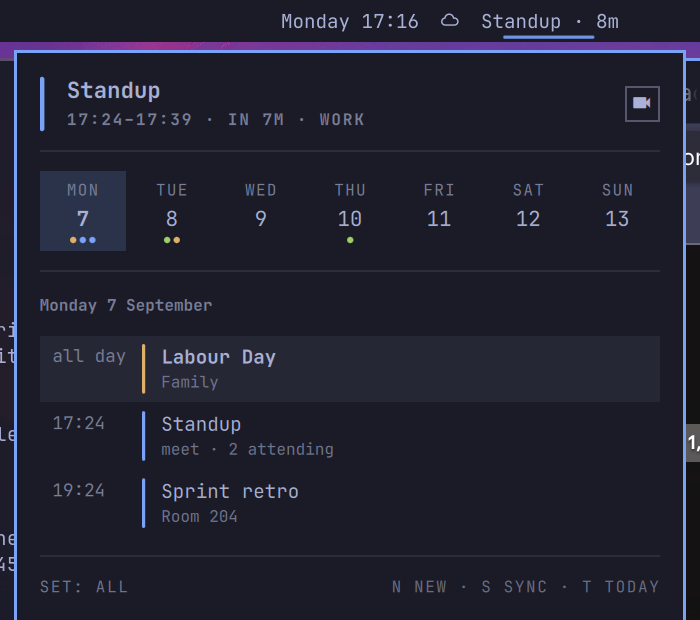
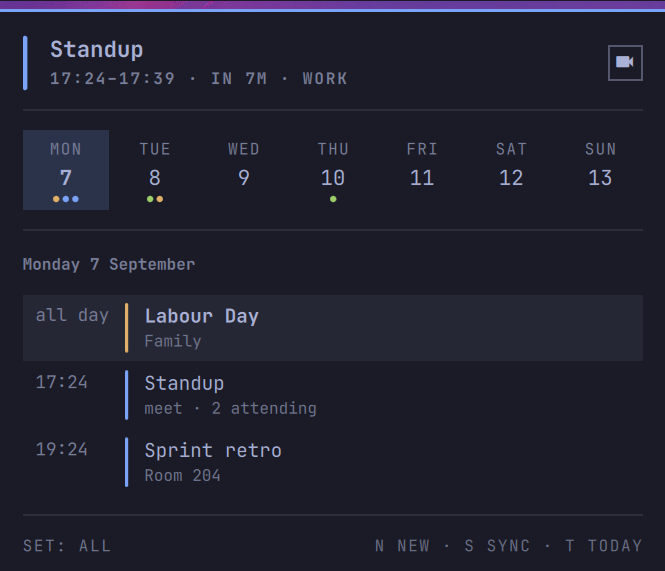
Make a broken watcher visible, and re-crop the screenshots
Two problems left over from Phase 2, both found by using the thing rather
than testing it.

A plugin that is enabled but broken rendered exactly like a plugin with a
free week: the watcher died, agenda.json never appeared, and every surface
politely showed nothing. The service now keeps the watcher's own stderr --
"No module named 'icalendar'" names the actual fix, where the exit code it
was reporting named nothing -- and turns it into a sentence the user can
act on. The panel shows that sentence in the theme's urgent colour instead
of "Nothing scheduled", and the pill takes a bar slot for a single warning
glyph when, and only when, there is no agenda to show instead; a stale but
populated agenda is still more useful than a warning, so events win the
slot whenever there are any. Verified live: with the calendar libraries
genuinely missing on this machine, the panel now says
"Omagenda needs icalendar: omarchy pkg add python-icalendar
python-dateutil python-recurring-ical-events".

The committed screenshots were cropped loosely enough to catch slivers of
whatever else was on screen -- single unreadable characters from a browser
and a terminal at the frame edges, but this is a public repo and they had
no business being there. Recropped to the panel's exact bounds, and
regenerated against demo events with plausible names rather than the
"Added while the panel was open" test event that happened to be on screen.
[…]

diff --git a/qml/Model.js b/qml/Model.js
@@ -189,6 +189,32 @@ function pillText(agenda, now, options) {
   return showCountdown ? event.title + " · " + countdownText(event.start, now) : event.title
 }
 
+// A plugin that is enabled but broken must not look like a plugin with
+// nothing to report. When the watcher can't run -- overwhelmingly because
+// the calendar libraries aren't installed -- both surfaces say so instead
+// of rendering an empty, indistinguishable "nothing scheduled".
+function healthProblem(serviceError, eventCount) {
+  var error = String(serviceError || "")
+  if (!error) return ""
+  // An error while events are already on screen is worth reporting in the
+  // panel but not worth hijacking the bar, so callers decide what to do
+  // with it; this only names the problem.
+  if (/No module named/.test(error)) {
+    var match = error.match(/No module named '([^']+)'/)
+    var missing = match ? match[1] : "a Python module"
+    return "Omagenda needs " + missing + ": omarchy pkg add python-icalendar python-dateutil python-recurring-ical-events"
+  }
+  if (/watch exited/.test(error)) return "The Omagenda watcher stopped: run 'omagenda doctor' to see why"
+  return error
+}
+
+function pillProblemText(serviceError, eventCount) {
+  // Only take a bar slot for a problem when there is nothing else to show;
+  // a stale-but-populated agenda is still more useful than a warning.
+  if (eventCount > 0) return ""
+  return healthProblem(serviceError, eventCount) ? " !" : ""
+}
+
 // ---------------------------------------------------------------------
 // Ticker strip
 // ---------------------------------------------------------------------
@@ -286,6 +312,8 @@ if (typeof module !== "undefined") {
     currentOrNextEvent: currentOrNextEvent,
     isRunning: isRunning,
     pillText: pillText,
+    healthProblem: healthProblem,
+    pillProblemText: pillProblemText,
     tickerDays: tickerDays,
     eventsForDate: eventsForDate,
     secondLine: secondLine,

diff --git a/qml/Service.qml b/qml/Service.qml
@@ -60,6 +60,9 @@ Item {
     return Model.paletteColor(root.palette, name, fallback)
   }
 
+  // "" when everything is fine; otherwise a sentence naming what to do.
+  readonly property string healthProblem: Model.healthProblem(lastError, eventCount)
+
   // ---- agenda.json --------------------------------------------------
   FileView {
     id: agendaFile
@@ -115,10 +118,26 @@ Item {
     onRunningChanged: root.watchRunning = running
     onExited: function(exitCode, exitStatus) {
       root.watchRunning = false
-      if (exitCode !== 0) root.lastError = "omagenda watch exited " + exitCode
+      if (exitCode !== 0 && root.lastError === "")
+        root.lastError = "omagenda watch exited " + exitCode
       // Back off rather than spin: a missing Python dependency would
       // otherwise restart in a tight loop for the life of the session.
       watchRestartTimer.restart()
+    }
+
+    // The watcher's own message is the useful one -- "No module named
+    // 'icalendar'" tells the user exactly what to install, where a bare
+    // exit code tells them nothing. Kept so the pill and panel can say it
+    // rather than rendering an empty agenda that looks like a free week.
+    stderr: StdioCollector {
+      waitForEnd: true
+      onStreamFinished: {
+        var message = text.trim()
+        if (message !== "") {
+          root.lastError = message
+          console.warn("omagenda:", message)
+        }
+      }
     }
   }
 
@@ -157,7 +176,8 @@ Item {
         events: root.eventCount,
         watchRunning: root.watchRunning,
         lastSync: root.agenda && root.agenda.lastSync ? root.agenda.lastSync : null,
-        error: root.lastError
+        error: root.lastError,
+        problem: root.healthProblem
       })
     }
   }

diff --git a/qml/Panel.qml b/qml/Panel.qml
@@ -60,6 +60,7 @@ Panel {
   readonly property var heroEvent: Model.currentOrNextEvent(agenda, now)
   readonly property var selectedEvent: cursorIndex >= 0 && cursorIndex < dayEvents.length ? dayEvents[cursorIndex] : null
 
+  readonly property string healthProblem: service ? service.healthProblem : ""
   readonly property color foreground: bar ? bar.foreground : Color.popups.text
   readonly property string fontFamily: bar ? bar.fontFamily : Style.font.family
 
@@ -369,12 +370,28 @@ Panel {
 
             Text {
               textFormat: Text.PlainText
-              visible: root.dayEvents.length === 0
+              visible: root.dayEvents.length === 0 && root.healthProblem === ""
               width: parent.width
               text: "Nothing scheduled"
               color: Qt.darker(root.foreground, 1.4)
               font.family: root.fontFamily
               font.pixelSize: Style.font.body
+              topPadding: Style.space(6)
+              bottomPadding: Style.space(6)
+            }
+
+            // A broken watcher renders an empty agenda that is
+            // indistinguishable from a free day, so say what is actually
+            // wrong and what to run about it.
+            Text {
+              textFormat: Text.PlainText
+              visible: root.healthProblem !== ""
+              width: parent.width
+              text: root.healthProblem
+              color: Color.urgent
+              font.family: root.fontFamily
+              font.pixelSize: Style.font.bodySmall
+              wrapMode: Text.WordWrap
               topPadding: Style.space(6)
               bottomPadding: Style.space(6)
             }

diff --git a/qml/BarWidget.qml b/qml/BarWidget.qml
@@ -38,12 +38,22 @@ BarWidget {
     setting("timeFormat", "system"),
     Qt.locale().timeFormat(Locale.ShortFormat).indexOf("AP") === -1)
 
-  readonly property string label: Model.pillText(agenda, now, {
+  readonly property string healthProblem: service ? service.healthProblem : ""
+
+  readonly property string eventLabel: Model.pillText(agenda, now, {
     leadMinutes: leadMinutes,
     alwaysShow: alwaysShow,
     showCountdown: showCountdown,
     timeFormat: timeFormat
   })
+
+  // An enabled-but-broken plugin must not look like a quiet one. When the
+  // watcher can't run and there is nothing to show anyway, the pill takes a
+  // slot for a single warning glyph so there is something to click.
+  readonly property string problemLabel: Model.pillProblemText(
+    service ? service.lastError : "", agenda && agenda.events ? agenda.events.length : 0)
+
+  readonly property string label: eventLabel !== "" ? eventLabel : problemLabel
 
   onMinuteTickChanged: now = new Date()
 
@@ -126,7 +136,7 @@ BarWidget {
     verticalPadding: 8.75
     // The panel is the detail view; a tooltip repeating the pill would be
     // noise on hover.
-    tooltipText: ""
+    tooltipText: root.eventLabel === "" ? root.healthProblem : ""
 
     onPressed: function(b) {
       if (b === Qt.RightButton || b === Qt.MiddleButton) root.sync()

diff --git a/tests/model.test.js b/tests/model.test.js
@@ -240,3 +240,24 @@ test("footerText reports the active set and last sync", () => {
   assert.equal(Model.footerText(AGENDA, "24h"), "Set: all · synced 13:45")
   assert.equal(Model.footerText({ activeSet: "work", lastSync: null }, "24h"), "Set: work")
 })
+
+// ---------------------------------------------------------------------
+test("a missing Python module becomes an actionable sentence", () => {
+  const text = Model.healthProblem("omagenda: No module named 'icalendar'", 0)
+  assert.match(text, /needs icalendar/)
+  assert.match(text, /omarchy pkg add/)
+})
+
+test("a bare watcher exit points at doctor", () => {
+  assert.match(Model.healthProblem("omagenda watch exited 1", 0), /doctor/)
+})
+
+test("no error means no problem to report", () => {
+  assert.equal(Model.healthProblem("", 0), "")
+  assert.equal(Model.pillProblemText("", 0), "")
+})
+
+test("a problem only takes a bar slot when there is nothing else to show", () => {
+  assert.notEqual(Model.pillProblemText("No module named 'icalendar'", 0), "")
+  assert.equal(Model.pillProblemText("No module named 'icalendar'", 5), "")
+})
